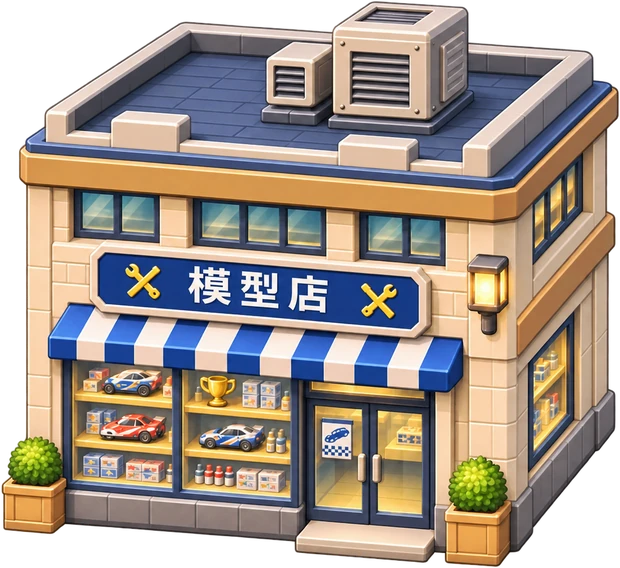
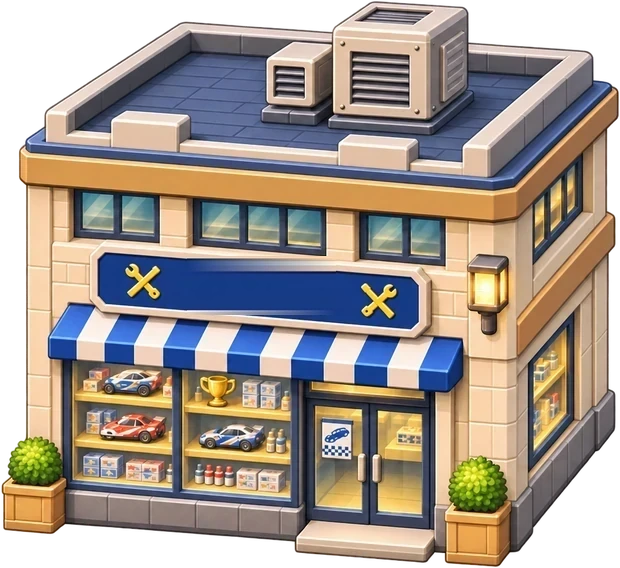
Display individual model shop names on signs

diff --git a/src/game/TownArt.ts b/src/game/TownArt.ts
@@ -8,6 +8,16 @@ import {SceneryPen} from './SceneryCanvas';
 export const townGroundRasterScale=.5;
 const townShopVariants:Partial<Record<ShopId,'amber'|'green'|'violet'|'red'|'teal'>>={hinata:'amber',wakaba:'green',yuunagi:'violet',akatsuki:'red',torque:'red',velocity:'teal',terrain:'green',endurance:'teal',atelier:'violet'};
 function inCivicArtwork(x:number,y:number){return x>=townCivicPlaza.x&&x<=townCivicPlaza.x+townCivicPlaza.width&&y>=townCivicPlaza.y&&y<=townCivicPlaza.y+townCivicPlaza.height;}
+function drawShopSign(scene:Phaser.Scene,venue:typeof townVenues[number]){
+ if(!venue.shopId)return;
+ const name=modelShops[venue.shopId].name,characters=[...name].length;
+ // Fit even the long specialty-shop names between the crossed-wrench emblems.
+ const fontSize=Math.max(8,Math.min(16,Math.floor(venue.w*.27/characters)));
+ scene.add.text(venue.x+venue.w*.419,venue.y+venue.h*.505,name,{
+  fontFamily:'sans-serif',fontSize:`${fontSize}px`,fontStyle:'bold',color:'#fff2cf',
+  align:'center',stroke:'#18345f',strokeThickness:1,
+ }).setOrigin(.5).setResolution(2).setDepth(venue.y+venue.h+14).setName(`town-shop-sign-${venue.shopId}`);
+}
 function drawCivicBuildings(scene:Phaser.Scene){
  const stadium=townVenues.find(v=>v.id==='stadium-5')!,shop=townVenues.find(v=>v.id==='komorebi')!;
  const arena=scene.add.image(stadium.x,stadium.y,'civic-arena-occlusion').setOrigin(0).setDisplaySize(stadium.w,stadium.h).setDepth(stadium.y+stadium.h+12);
@@ -15,6 +25,7 @@ function drawCivicBuildings(scene:Phaser.Scene){
  scene.textures.get('civic-arena-occlusion').setFilter(Phaser.Textures.FilterMode.LINEAR);
  scene.textures.get('civic-shop-occlusion').setFilter(Phaser.Textures.FilterMode.LINEAR);
  arena.setName('civic-arena-foreground');storefront.setName('civic-shop-foreground');
+ drawShopSign(scene,shop);
 }
 function drawModelShopSprite(scene:Phaser.Scene,venue:typeof townVenues[number],open:boolean){
  if(!venue.shopId){drawVenueFacade(scene,venue,open);return;}
@@ -22,6 +33,7 @@ function drawModelShopSprite(scene:Phaser.Scene,venue:typeof townVenues[number],
  if(!scene.textures.exists(key)){drawVenueFacade(scene,venue,open);return;}
  scene.textures.get(key).setFilter(Phaser.Textures.FilterMode.LINEAR);
  scene.add.image(venue.x,venue.y,key).setOrigin(0).setDisplaySize(venue.w,venue.h).setDepth(venue.y+venue.h+12).setName(`town-shop-${venue.shopId}-${modelShops[venue.shopId].color.toString(16)}`);
+ drawShopSign(scene,venue);
 }
 
 /** Terrain is baked once. Pixel clusters follow a fixed, upper-left daylight. */
